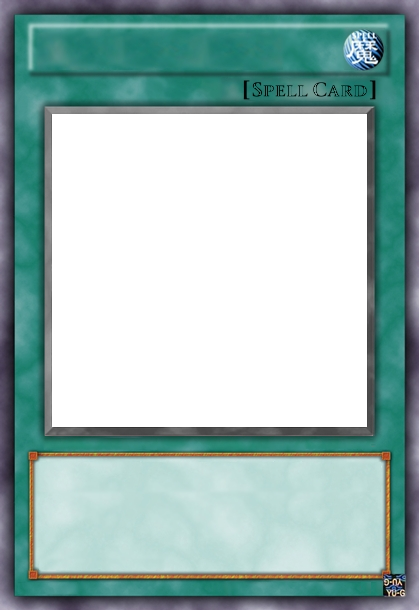
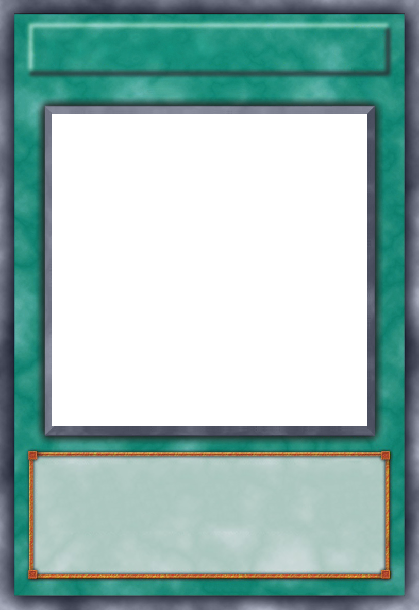
Started implementation of action types.

diff --git a/client/app/components/cards/MonsterCard.js b/client/app/components/cards/MonsterCard.js
@@ -4,9 +4,11 @@ import _ from 'lodash';
 
 import {MonsterTypes} from 'client/app/constants';
 import {ActionCreators} from 'client/app/redux/actions';
+import {selectCardType} from 'client/app/redux/selectors';
 
 import {LevelSelector} from 'client/app/components/editors/LevelSelector';
 import {AttributeEditor} from 'client/app/components/editors/AttributeEditor';
+import {ActionTypeEditor} from 'client/app/components/editors/ActionTypeEditor';
 import {ImageSelector} from 'client/app/components/editors/ImageSelector';
 import {TypeEditor} from 'client/app/components/editors/typeEditor/TypeEditor';
 import {DescriptionEditor} from 'client/app/components/editors/DescriptionEditor';
@@ -14,8 +16,20 @@ import {AutoscalingInput} from 'client/app/components/common/autoscalingInput/Au
 
 import 'client/app/components/cards/MonsterCard.scss';
 import image from 'client/app/assets/BlueEyesWhiteDragon.png';
+import equip from 'client/app/assets/Equip.png';
+import quickPlay from 'client/app/assets/Quick-Play.png';
+import ritual from 'client/app/assets/Ritual.png';
+import continuous from 'client/app/assets/Continuous.png';
+import field from 'client/app/assets/Field.png';
 
-
+const spellIcons = ['EQUIP', 'QUICKPLAY', 'CONTINUOUS', 'RITUAL', 'FIELD']
+const spellIconMap = {
+    EQUIP: equip,
+    QUICKPLAY: quickPlay,
+    CONTINUOUS: continuous,
+    RITUAL: ritual,
+    FIELD: field
+}
 class MonsterCard extends React.Component{
     constructor(props){
         super(props);
@@ -23,14 +37,10 @@ class MonsterCard extends React.Component{
 
     getCardCenterEditor(){
         if (this.props.cardState.attribute === 'SPELL' || this.props.cardState.attribute === 'TRAP'){
-           return(
-               <div className="ygo-card-spell-speed-container">
-                   <div>
-                        <span className="spell-speed-container-left-brace">[</span>
-                        <span>Spell Card</span>
-                        <span className="spell-speed-container-right-brace">]</span>
-                   </div>
-               </div>
+            return(
+                <ActionTypeEditor
+                    cardType={this.props.cardState.cardType}
+                />
            );
 
         }  
@@ -163,7 +173,7 @@ class MonsterCard extends React.Component{
 // Hook up Redux store state to props of this Component.
 const mapStateToProps = function(state){
     return {
-        cardState: state.cardReducer
+        cardState: Object.assign({cardType: selectCardType(state)}, state.cardReducer)
     }
 }
 

diff --git a/client/app/components/editors/ActionTypeEditor.js b/client/app/components/editors/ActionTypeEditor.js
@@ -1,0 +1,57 @@
+import React from 'react';
+
+import {getValidActionTypes} from 'client/app/utilities';
+
+import equip from 'client/app/assets/Equip.png';
+import quickPlay from 'client/app/assets/Quick-Play.png';
+import ritual from 'client/app/assets/Ritual.png';
+import continuous from 'client/app/assets/Continuous.png';
+import field from 'client/app/assets/Field.png';
+import counter from 'client/app/assets/Counter.png';
+
+const actionTypeMap = {
+    EQUIP: equip,
+    QUICKPLAY: quickPlay,
+    CONTINUOUS: continuous,
+    RITUAL: ritual,
+    FIELD: field,
+    COUNTER: counter
+};
+
+export class ActionTypeEditor extends React.Component{
+    constructor(props){
+        super(props);
+    }
+
+    getActionIconsAsDisplay(){
+        return (
+             <div className="action-type-container">
+                {
+                    _.map(getValidActionTypes(this.props.cardType), (actionType) => {
+                        return (
+                            <img
+                                key={actionType}
+                                className="action-type"
+                                src={actionTypeMap[actionType]}
+                            />
+                        );
+                    })
+                }
+            </div>
+        );
+    }
+
+    render(){
+        return (
+            <div className="ygo-card-action-text-container">
+                <div>
+                    <span className="action-text-container-left-brace">[</span>
+                    <span>Spell Card</span>
+                   {this.getActionIconsAsDisplay()}
+                    <span className="action-text-container-right-brace">]</span>
+                </div>
+            </div>
+        );
+    }
+}
+

diff --git a/client/app/components/cards/MonsterCard.scss b/client/app/components/cards/MonsterCard.scss
@@ -72,7 +72,7 @@
   }
 
   &.spell-card{
-    background-image: url("~client/app/assets/TestEquipSpell.png");
+    background-image: url("~client/app/assets/NormalSpell.png");
     .ygo-card-name{
       input{
         color: white;
@@ -152,19 +152,40 @@
     }
   }
   
-  .ygo-card-spell-speed-container{
+  .ygo-card-action-text-container{
     height: calc(4.2/86 * var(--card-height));
     font-family: YGO ITC Stone Serif Small Caps Bold;
     display: flex;
     flex-direction: row-reverse;
     font-size: 28px;
     >div{
+      display: flex;
+      flex-direction: row;
+
       margin-top: -.5px;
-      .spell-speed-container-left-brace{
+      .action-text-container-left-brace{
         padding-right: 2px;
       }
-      .spell-speed-container-right-brace{
+      .action-text-container-right-brace{
         padding-left: 2px;
+      }
+
+      .action-type-container{
+        display: flex;
+        flex-direction: row;
+        .action-type{
+          cursor: pointer;
+          width: calc(3/59 * var(--card-width));
+          height: calc(3/59 * var(--card-width));
+          opacity: .5;
+          &.action-type-selected{
+            opacity: 1;
+          }
+          &:hover{
+            filter: brightness(1.6);
+          }
+        }      
+        margin: 3px -1px 0px 9px;
       }
     }
     

diff --git a/client/app/redux/selectors.js b/client/app/redux/selectors.js
@@ -1,0 +1,22 @@
+import { createSelector } from 'reselect';
+import {CardTypes, SpellActionTypes, TrapActionTypes} from 'client/app/constants';
+import {getValidActionTypes} from 'client/app/utilities';
+
+const selectCardAttribute = (state) => state.cardReducer.attribute;
+
+export const selectCardType = createSelector(
+  [selectCardAttribute],
+  (cardAttribute) => {
+      if (cardAttribute === 'SPELL'){
+          return CardTypes.SPELL;
+      }
+      else if (cardAttribute === 'TRAP'){
+          return CardTypes.TRAP;
+      }
+      else{
+          return CardTypes.MONSTER;
+      }
+  }
+)
+
+export const selectValidActionTypes = createSelector([selectCardType], getValidActionTypes);

diff --git a/client/app/utilities.js b/client/app/utilities.js
@@ -1,0 +1,12 @@
+import {CardTypes, SpellActionTypes, TrapActionTypes} from 'client/app/constants';
+
+export const getValidActionTypes = function(cardType){
+    switch(cardType){
+    case CardTypes.SPELL:
+        return [SpellActionTypes.EQUIP, SpellActionTypes.QUICKPLAY, SpellActionTypes.CONTINUOUS, SpellActionTypes.FIELD, SpellActionTypes.RITUAL];
+    case CardTypes.TRAP:
+        return [TrapActionTypes.CONTINUOUS, TrapActionTypes.COUNTER];
+    default:
+        return [];
+    }
+}

diff --git a/client/app/constants.js b/client/app/constants.js
@@ -13,4 +13,20 @@ const CardTypes = {
     SPELL: 'SPELL',
     TRAP: 'TRAP'
 }
+
+export const SpellActionTypes = {
+    CONTINUOUS: 'CONTINUOUS',
+    FIELD: 'FIELD',
+    RITUAL: 'RITUAL',
+    QUICKPLAY: 'QUICKPLAY',
+    EQUIP: 'EQUIP',
+}
+
+export const TrapActionTypes = {
+    CONTINUOUS: 'CONTINUOUS',
+    COUNTER: 'COUNTER'
+}
+
+export const AllActionTypes = Object.assign({}, SpellActionTypes, TrapActionTypes);
+
 export {MonsterTypes, OrderedMonsterTypeKeyList, CardTypes};

diff --git a/client/app/components/editors/attributeEditor/AttributeEditor.scss b/client/app/components/editors/attributeEditor/AttributeEditor.scss
@@ -12,6 +12,7 @@
     }
     
     .ygo-card-attribute-suggestion-anchor{
+        z-index: 10;
         position: absolute;
         display: flex;
         align-items: center;
